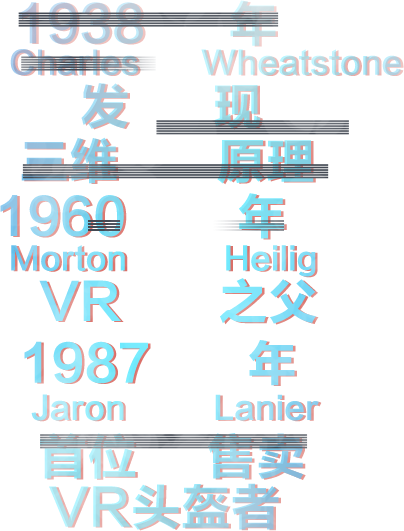
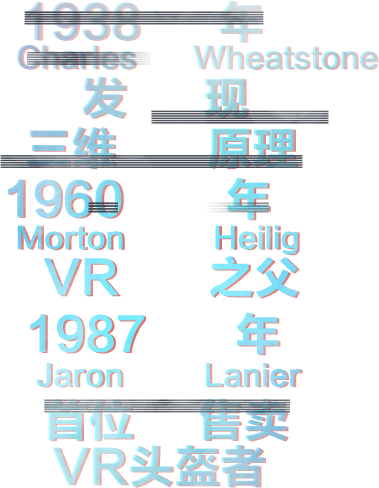
versoin-4.2

Changed region(s): [[0.0, 0.0, 0.9578, 0.6148], [0.058, 0.6455, 0.8127, 1.0]]

diff --git a/src/components/Page2.vue b/src/components/Page2.vue
@@ -31,16 +31,6 @@
 		</div>
 		<div class="p2-mask"></div>
 		<div class="dir-next"></div>
-<!--     <div class="p2-bg"></div>
-  	<div class="p2-text">
-		  <div class="p2-text-inner"></div>
-		</div>
-		<div class="p2-people-area">
-		  <div class="p2-people-body"></div>
-		  <div class="p2-people-foot1"></div>
-		  <div class="p2-people-foot2"></div>
-		  <div class="p2-people-hand1"></div>
-		</div> -->
 
   </div>
 </template>
@@ -332,10 +322,10 @@ export default {
 	background-size: 100% 100%;
 	background-repeat: no-repeat;
 	position: absolute;
-	left: 95px;
-	top: 121px;
-	width: 202px;
-	height: 265.5px;
+	left: 101px;
+	top: 125px;
+	width: 189.5px;
+	height: 244px;
 	z-index: 50;
 }
 .p2-desc .p2-up-people {
@@ -343,8 +333,8 @@ export default {
 	background-size: 1295px 363px;
 	background-repeat: no-repeat;
 	position: absolute;
-	left: 133px;
-	top: 88px;
+	left: 130px;
+	top: 70px;
 	width: 185px;
 	height: 363px;
 	margin-left: -35.25px;
@@ -607,138 +597,6 @@ export default {
 		background-position-x: -1295px;
 	}
 }
-/*.p2-bg {
-	background: url(../assets/images/p1_bg.png);
-	background-size: 100% 100%;
- 	background-repeat: no-repeat;
-	position: absolute;
-  	width: 100vw;
-  	height: 100vh;
-}
-.p2-text {
-	position: absolute;
-	top: 50%;
-	left: 50%;
-	margin-left: -130px;
-	margin-top: 100px;
-	width: 260px;
-	height: 50px;
-}
-.p2-text-inner {
-	position: absolute;
-	top: 0;
-	left: 0;
-	width: 260px;
-	height: 50px;
-	-webkit-mask-image: url(../assets/images/p2_text.png);
-	-webkit-mask-size: auto 100%;
-	background: url(../assets/images/paint.jpg);
-	background-size:960px 1px;
-	background-repeat: repeat-y;
-	-webkit-animation: masked-animation 10s linear .5s infinite alternate;
-}
-@keyframes masked-animation {
-	0% {
-		background-position: left bottom;
-	}
-	100% {
-		background-position: right bottom;
-	}
-}
-.paly{
-	-webkit-animation:fadeInDown 2s .5s ease both;
-}
-@keyframes fadeInDown{
-	0%{
-		opacity:0;
-		-webkit-transform:translate(0,0)
-	}
-	100%{
-		opacity:1;
-		-webkit-transform:translate(0,0)
-	}
-}
-.p2-people-area {
-	position: absolute;
-	left: 50%;
-	top: 40px;
-	margin-left: -40px;
-}
-.p2-people-body {
-	width: 78px;
-	height: 220px;
-	background-image: url(../assets/images/p2_people3-body.png);
-	background-size:100%;
-	background-repeat: no-repeat;
-	position: absolute;
-	z-index: 5;
-}
-.p2-people-foot1 {
-	position: absolute;
-	background-image: url(../assets/images/p2_people3-foot1.png);
-	background-size: 100%;
-	background-repeat: no-repeat;
-	top: 190px;
-	left: 28px;
-	width: 110px;
-	height: 210px;
-	-webkit-animation: p2f1 1s linear .5s infinite alternate;
-	-webkit-transform-origin: 20% 0;
-	z-index: 2;
-}
-@keyframes p2f1 {
-	0% {
-    	-webkit-transform: rotate(0);
-	}
-
-	100% {
-	    -webkit-transform: rotate(40deg);
-	}
-}
-.p2-people-foot2 {
-	position: absolute;
-	background-image: url(../assets/images/p2_people3-foot2.png);
-	background-size: 100%;
-	background-repeat: no-repeat;
-	top: 200px;
-	left: -30px;
-	width:75px;
-	height: 190px;
-	-webkit-animation: p2f2 1s linear 0.5s infinite alternate;
-	-webkit-transform-origin: 100% 0;
-	z-index: 1;
-}
-@keyframes p2f2 {
-	0% {
-		-webkit-transform: rotate(10deg);
-	}
-	100% {
-		-webkit-transform: rotate(-40deg);
-	}
-}
-.p2-people-hand1 {
-	position: absolute;
-	background-image: url(../assets/images/p2_people3-hand1.png);
-	background-size: 100%;
-	background-repeat: no-repeat;
-	top: 90px;
-	left: 43px;
-	width: 80px;
-	height: 120px;
-	-webkit-animation: p2h1 1s linear .5s infinite alternate;
-	-webkit-transform-origin: 0 0;
-}
-@keyframes p2h1 {
-	0% {
-		-webkit-transform: rotate(-10deg);
-	}
-	100% {
-		-webkit-transform: rotate(40deg);
-	}
-}*/
-
-
-
 
 @media only screen
 and (max-device-height: 500px) {

diff --git a/src/components/Page3.vue b/src/components/Page3.vue
@@ -102,10 +102,10 @@ export default {
 	background-size: 100% 100%;
 	background-repeat: no-repeat;
 	position: absolute;
-	width: 139.5px;
-	height: 297.5px;
+	width: 203px;
+	height: 258px;
 	left: 0px;
-	top: 100px;
+	top: 125px;
 }
 .p3-bg-right{
 	background-image: url(../assets/images/p3_bg_right.png);
@@ -332,10 +332,10 @@ export default {
 	background-size: 100% 100%;
 	background-repeat: no-repeat;
 	position: absolute;
-	left: 52px;
-	top: 119px;
-	width: 233px;
-	height: 251px;
+	left: 65px;
+	top: 132px;
+	width: 214.5px;
+	height: 231px;
 	z-index: 50;
 }
 .p3-desc .p3-up-people {
@@ -344,7 +344,7 @@ export default {
 	background-repeat: no-repeat;
 	position: absolute;
 	left: 133px;
-	top: 57px;
+	top: 70px;
 	width: 185px;
 	height: 363px;
 	margin-left: -35.25px;

diff --git a/src/components/Page7.vue b/src/components/Page7.vue
@@ -138,7 +138,7 @@ export default {
 	position: absolute;
 	width: 177px;
 	height: 51.5px;
-	top: 315px;
+	top: 371px;
 	left: 50%;
 	margin-left: -80.25px;
  }
@@ -147,11 +147,11 @@ export default {
 	background-size: 100% 100%;
 	background-repeat: no-repeat;
 	position: absolute;
-	width: 86.5px;
-	height: 27.5px;
-	top: 391px;
+	width: 120px;
+	height: 38px;
+	top: 445.5px;
 	left: 50%;
-	margin-left: -43.25px;
+	margin-left: -60px;
  }
  .p7-desc .p7-line-left {
  	background-image: url(../assets/images/p2_light.png);
@@ -396,7 +396,6 @@ export default {
 	left: -20px;
 }
 }
-
 
  @media only screen
  and (max-device-width : 736px)
